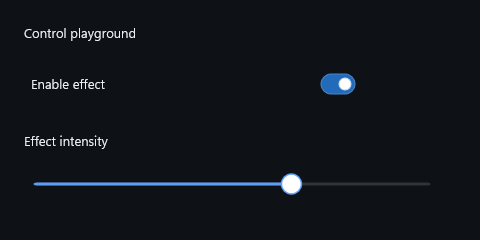
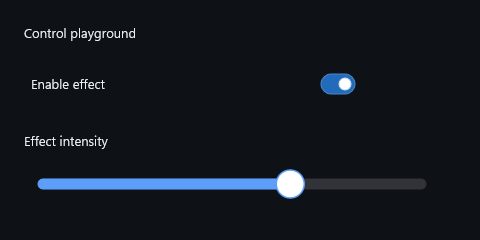
Widen Slider tracks and thumbs for touch, and add FontRole::IconLarge.
The previous 2 DIP track was too thin for finger use, and Icon versus HeroIcon left no 32 DIP size for large in-control glyphs.

Changed region(s): [[0.0625, 0.7, 0.9062, 0.8458]]

diff --git a/src/Controls/DxUi.WindowHost.cpp b/src/Controls/DxUi.WindowHost.cpp
@@ -1961,7 +1961,7 @@ IDWriteTextFormat* ControlHost::GetTextFormat(FontRole role) const noexcept
 {
     if ((! _dwriteFactory || ! _bodyTextFormat || ! _bodyStrongTextFormat || ! _bodyLargeTextFormat || ! _listItemTextFormat || ! _titleTextFormat ||
          ! _subtitleTextFormat || ! _titleLargeTextFormat || ! _displayTextFormat || ! _headerTextFormat || ! _smallTextFormat || ! _monoTextFormat ||
-         (_fluentIconFontAvailable && (! _iconTextFormat || ! _heroIconTextFormat))))
+         (_fluentIconFontAvailable && (! _iconTextFormat || ! _heroIconTextFormat || ! _iconLargeTextFormat))))
     {
         if (! EnsureDeviceIndependentResources())
         {
@@ -1982,6 +1982,7 @@ IDWriteTextFormat* ControlHost::GetTextFormat(FontRole role) const noexcept
         case FontRole::Small: return _smallTextFormat.get();
         case FontRole::Icon: return _iconTextFormat ? _iconTextFormat.get() : _smallTextFormat.get();
         case FontRole::HeroIcon: return _heroIconTextFormat ? _heroIconTextFormat.get() : (_iconTextFormat ? _iconTextFormat.get() : _smallTextFormat.get());
+        case FontRole::IconLarge: return _iconLargeTextFormat ? _iconLargeTextFormat.get() : (_iconTextFormat ? _iconTextFormat.get() : _smallTextFormat.get());
         case FontRole::Monospace: return _monoTextFormat.get();
         case FontRole::Body:
         default: return _bodyTextFormat.get();
@@ -2009,7 +2010,7 @@ IDWriteTextFormat* ControlHost::GetTextFormat(FontRole role,
         return it->second.get();
     }
 
-    if ((role == FontRole::Icon || role == FontRole::HeroIcon) && ! HasFluentIconFont())
+    if ((role == FontRole::Icon || role == FontRole::HeroIcon || role == FontRole::IconLarge) && ! HasFluentIconFont())
     {
         return GetTextFormat(FontRole::Small, alignment, paragraphAlignment, wrap);
     }
@@ -3054,6 +3055,16 @@ bool ControlHost::EnsureDeviceIndependentResources() const noexcept
         {
             Debug::Warning(L"DxUi::ControlHost: CreateTextFormat failed for fluent hero icon text: 0x{:08X}", hr);
             _heroIconTextFormat.reset();
+        }
+    }
+    if (_fluentIconFontAvailable && ! _iconLargeTextFormat)
+    {
+        const Typography::TypographySpec spec = Typography::GetDxUiTypographySpec(FontRole::IconLarge);
+        const HRESULT hr                      = Typography::CreateTextFormat(_dwriteFactory.get(), spec, _iconLargeTextFormat.addressof());
+        if (FAILED(hr) || ! _iconLargeTextFormat)
+        {
+            Debug::Warning(L"DxUi::ControlHost: CreateTextFormat failed for fluent large icon text: 0x{:08X}", hr);
+            _iconLargeTextFormat.reset();
         }
     }
     if (! _monoTextFormat)

diff --git a/Tests/Controls/DxUiTests.NewControls.cpp b/Tests/Controls/DxUiTests.NewControls.cpp
@@ -953,6 +953,20 @@ void TestSliderDefaultState()
     RequireFloatNear(static_cast<float>(slider.GetLargeStep()), 10.0f, 0.0001f, "slider defaults to a page-sized keyboard step");
 }
 
+void TestSliderTouchFriendlyGeometry()
+{
+    using namespace DxUi;
+
+    Slider slider;
+    slider.SetBounds(D2D1::RectF(0.0f, 0.0f, 220.0f, 48.0f));
+    slider.SetValue(50.0);
+    const D2D1_RECT_F track = slider.DebugGetTrackRect();
+    const D2D1_RECT_F thumb = slider.DebugGetThumbRect();
+    RequireFloatNear(track.bottom - track.top, 10.0f, 0.01f, "slider track is 10 DIP thick for touch");
+    RequireFloatNear(thumb.right - thumb.left, 28.0f, 0.01f, "slider thumb is 28 DIP at rest");
+    Require(track.left >= 13.5f && (220.0f - track.right) >= 13.5f, "slider track insets leave room for the thumb");
+}
+
 void TestSliderKeyboardAndPointerInputUpdatesValue()
 {
     using namespace DxUi;
@@ -960,7 +974,7 @@ void TestSliderKeyboardAndPointerInputUpdatesValue()
     WindowHost host;
     auto root    = std::make_unique<Panel>();
     auto* slider = root->AddChild<Slider>();
-    slider->SetBounds(D2D1::RectF(0.0f, 0.0f, 220.0f, 32.0f));
+    slider->SetBounds(D2D1::RectF(0.0f, 0.0f, 220.0f, 48.0f));
     slider->SetMinimum(0.0);
     slider->SetMaximum(10.0);
     slider->SetValue(5.0);
@@ -986,8 +1000,8 @@ void TestSliderKeyboardAndPointerInputUpdatesValue()
     RequireFloatNear(static_cast<float>(slider->GetValue()), 10.0f, 0.0001f, "slider page-up clamps to the configured maximum");
     Require(callbackCount == 2u && lastValue == 10.0, "slider page-up fires the value-changed callback");
 
-    Require(slider->OnMouseDown(host, D2D1::Point2F(10.0f, 16.0f), false, 0), "slider handles pointer press");
-    Require(slider->OnMouseUp(host, D2D1::Point2F(10.0f, 16.0f), false, 0), "slider handles pointer release");
+    Require(slider->OnMouseDown(host, D2D1::Point2F(10.0f, 24.0f), false, 0), "slider handles pointer press");
+    Require(slider->OnMouseUp(host, D2D1::Point2F(10.0f, 24.0f), false, 0), "slider handles pointer release");
     RequireFloatNear(static_cast<float>(slider->GetValue()), 0.0f, 0.0001f, "slider pointer input maps the far-left track edge to the minimum value");
     Require(callbackCount >= 3u && lastValue == 0.0, "slider pointer input fires the value-changed callback");
 }
@@ -1899,6 +1913,7 @@ void RunNewControlTests()
 
     // Slider
     TestSliderDefaultState();
+    TestSliderTouchFriendlyGeometry();
     TestSliderKeyboardAndPointerInputUpdatesValue();
     TestSliderVerticalAndRightToLeftGeometryMirrors();
     TestSliderPaintHandlesMissingDeviceContext();

diff --git a/Tests/Controls/DxUiTests.WindowHost.cpp b/Tests/Controls/DxUiTests.WindowHost.cpp
@@ -26,6 +26,8 @@ void TestDxUiTypographyMapsFontRolesToSegoeUiVariableFamilies()
     const TypographySpec titleLargeSpec = GetDxUiTypographySpec(FontRole::TitleLarge);
     const TypographySpec displaySpec    = GetDxUiTypographySpec(FontRole::Display);
     const TypographySpec iconSpec       = GetDxUiTypographySpec(FontRole::Icon);
+    const TypographySpec iconLargeSpec  = GetDxUiTypographySpec(FontRole::IconLarge);
+    const TypographySpec heroIconSpec   = GetDxUiTypographySpec(FontRole::HeroIcon);
     const TypographySpec monoSpec       = GetDxUiTypographySpec(FontRole::Monospace);
 
     Require(bodySpec.familyName == kSegoeUiVariableTextFamily, "body role uses Segoe UI Variable Text");
@@ -35,7 +37,9 @@ void TestDxUiTypographyMapsFontRolesToSegoeUiVariableFamilies()
     Require(headerSpec.familyName == kSegoeUiVariableSmallFamily, "header role uses Segoe UI Variable Small");
     Require(titleLargeSpec.familyName == kSegoeUiVariableDisplayFamily, "title-large role uses Segoe UI Variable Display");
     Require(displaySpec.familyName == kSegoeUiVariableDisplayFamily, "display role uses Segoe UI Variable Display");
-    Require(iconSpec.familyName == kSegoeFluentIconsFamily, "icon role uses Segoe Fluent Icons");
+    Require(iconSpec.familyName == kSegoeFluentIconsFamily && iconSpec.sizeDip == 12.0f, "icon role uses 12 DIP Segoe Fluent Icons");
+    Require(iconLargeSpec.familyName == kSegoeFluentIconsFamily && iconLargeSpec.sizeDip == 32.0f, "icon-large role uses 32 DIP Segoe Fluent Icons");
+    Require(heroIconSpec.familyName == kSegoeFluentIconsFamily && heroIconSpec.sizeDip == 64.0f, "hero-icon role uses 64 DIP Segoe Fluent Icons");
     Require(monoSpec.familyName == kUiMonospaceFamily, "monospace role uses the shared monospace family");
 }
 

diff --git a/src/Controls/DxUi.Controls.cpp b/src/Controls/DxUi.Controls.cpp
@@ -201,11 +201,11 @@ constexpr float kTooltipCornerRadiusDip          = 4.0f;
 constexpr float kTooltipFallbackLineHeightDip    = 18.0f;
 constexpr float kTooltipPreferredTextHeightDip   = 256.0f;
 constexpr float kMenuBarItemCornerRadiusDip      = 4.0f;
-constexpr float kSliderTrackThicknessDip         = 2.0f;
-constexpr float kSliderThumbDiameterDip          = 20.0f;
-constexpr float kSliderThumbHoverDiameterDip     = 22.0f;
-constexpr float kSliderThumbPressedDiameterDip   = 18.0f;
-constexpr float kSliderTrackInsetDip             = 10.0f;
+constexpr float kSliderTrackThicknessDip         = 10.0f;
+constexpr float kSliderThumbDiameterDip          = 28.0f;
+constexpr float kSliderThumbHoverDiameterDip     = 32.0f;
+constexpr float kSliderThumbPressedDiameterDip   = 24.0f;
+constexpr float kSliderTrackInsetDip             = 14.0f;
 constexpr float kSliderTickLengthDip             = 6.0f;
 constexpr float kTabStripHeightDip               = 32.0f;
 constexpr float kTabCornerRadiusDip              = 5.0f;
@@ -4538,10 +4538,11 @@ void Slider::Paint(ControlHost& host) const
     const D2D1_RECT_F fill        = GetFillRect();
     const D2D1_RECT_F thumb       = GetThumbRect();
     const D2D1_COLOR_F trackColor = BlendColor(theme.border, theme.windowBackground, theme.dark ? 0.40f : 0.55f);
-    DrawRoundedRect(host, track, trackColor, trackColor, 4.0f);
+    const float trackRadius       = kSliderTrackThicknessDip * 0.5f;
+    DrawRoundedRect(host, track, trackColor, trackColor, trackRadius);
     if (fill.right > fill.left && fill.bottom > fill.top)
     {
-        DrawRoundedRect(host, fill, theme.accent, theme.accent, 4.0f);
+        DrawRoundedRect(host, fill, theme.accent, theme.accent, trackRadius);
     }
 
     if (! _tickMarks.empty())

diff --git a/include/DxUi/DxUi.h b/include/DxUi/DxUi.h
@@ -189,9 +189,10 @@ enum class FontRole : uint8_t
     Display,    // 68/92 Semibold
     Header,     // DEPRECATED — use Subtitle for new code; kept for backward compat
     Small,      // maps to Caption in WinUI
-    Icon,
-    HeroIcon,
+    Icon,       // 12 DIP Fluent/MDL2
+    HeroIcon,   // 64 DIP Fluent/MDL2
     Monospace,
+    IconLarge, // 32 DIP Fluent/MDL2; between Icon and HeroIcon
 };
 
 // ---------------------------------------------------------------------------
@@ -3959,6 +3960,7 @@ private:
     mutable wil::com_ptr<IDWriteTextFormat> _smallTextFormat;
     mutable wil::com_ptr<IDWriteTextFormat> _iconTextFormat;
     mutable wil::com_ptr<IDWriteTextFormat> _heroIconTextFormat;
+    mutable wil::com_ptr<IDWriteTextFormat> _iconLargeTextFormat;
     mutable wil::com_ptr<IDWriteTextFormat> _monoTextFormat;
     mutable std::unordered_map<uint64_t, wil::com_ptr<IDWriteTextFormat>> _configuredTextFormats;
     mutable bool _fluentIconFontAvailabilityChecked = false;

diff --git a/src/Controls/DxUi.Typography.h b/src/Controls/DxUi.Typography.h
@@ -147,6 +147,7 @@ struct TypographyTextFormatCacheEntry final
         case FontRole::Small: return MakeUiTextSpec(11.0f, DWRITE_FONT_WEIGHT_NORMAL);
         case FontRole::Icon: return MakeUiIconSpec(12.0f);
         case FontRole::HeroIcon: return MakeUiIconSpec(64.0f);
+        case FontRole::IconLarge: return MakeUiIconSpec(32.0f);
         case FontRole::Monospace: return MakeUiMonospaceSpec(12.0f);
         case FontRole::Body:
         default: return MakeUiTextSpec(13.0f, DWRITE_FONT_WEIGHT_NORMAL);

diff --git a/docs/controls.md b/docs/controls.md
@@ -19,7 +19,7 @@ Set bounds, visibility, enabled state and content before preparation. Mutate con
 | ProgressBar | Set minimum, maximum and value; `SetIndeterminate(true)` requires host animation ticks. |
 | PageIndicator | Set `SetPageCount` / `SetSelectedIndex` for a bottom strip of dots. `SetOnSelected` reports user clicks and Left/Right/Home/End. Hidden and not hittable when there are fewer than two pages. Strip height is `kStripHeightDip` (20). |
 | ThroughputGraph | Feed timestamped samples through its public sample API; keep history within its configured limits. Use the rendering tests for populated series and bands. |
-| Slider | Set range/value and handle `SetOnChange(SliderChange)` for preview, commit and cancel. |
+| Slider | Set range/value and handle `SetOnChange(SliderChange)` for preview, commit and cancel. The track is 10 DIP thick with a 28 DIP thumb; the full control bounds are the hit target, so keep height at least 48 DIP for touch. |
 | Toolbar | Panel for command controls; populate buttons with labels, bounds and actions. |
 | MenuBar | Supply `MenuBarItem` records through `SetItems`; handle `SetOnOpenItem` and hover changes. Native menu operations require the HWND integration. |
 | TabControl | Add populated tab pages with `AddTab`; handle selection, close-request, closed and reorder callbacks as needed. |

diff --git a/Specs/UI/UI_ControlsAndLayout.md b/Specs/UI/UI_ControlsAndLayout.md
@@ -1,7 +1,7 @@
 # Controls and layout
 
 Status: normative intended contract
-Last reviewed: 2026-09-06
+Last reviewed: 2026-09-07
 
 Implemented capabilities are listed in [capabilities.json](../../capabilities.json); requirements for pending
 targets are acceptance contracts, not claims of current support.
@@ -41,6 +41,12 @@ nothing, report empty hit bounds, and ignore pointer and keyboard input. `SetSel
 does not wrap. Idle dots use subdued text; the selected dot uses the theme accent. Preferred strip height is
 `PageIndicator::kStripHeightDip` (20 DIP). Consumers that draw a matching strip without hosting the control MUST use
 the same DIP radius, selected radius and gap constants.
+
+### Slider
+
+`Slider` uses a 10 DIP capsule track and a 28 DIP thumb (32 DIP hovered, 24 DIP pressed). The track insets 14 DIP from
+each end so the thumb stays inside the control. Pointer hit testing uses the full control bounds, not the thin fill,
+so consumers should keep at least a 48 DIP control height for touch. Keyboard steps still use `SetStep` / `SetLargeStep`.
 
 Each control also requires accurate usage documentation in `docs/controls.md`. Code changes review affected docs
 and regenerate changed visuals into `docs/gallery` under [the documentation contract](../Core/Core_Documentation.md).

diff --git a/Specs/UI/UI_ThemeAndTypography.md b/Specs/UI/UI_ThemeAndTypography.md
@@ -1,13 +1,15 @@
 # Theme and typography
 
 Status: normative intended contract
-Last reviewed: 2026-09-06
+Last reviewed: 2026-09-07
 
 Implemented capabilities are listed in [capabilities.json](../../capabilities.json); requirements for pending
 targets are acceptance contracts, not claims of current support.
 
 Consumers provide colors and style tokens. Shared controls support light, dark, high contrast and reduced motion.
-Retain Segoe UI typography and Fluent/MDL2/Unicode icon fallback where supported. Do not add a dependency on either
+Retain Segoe UI typography and Fluent/MDL2/Unicode icon fallback where supported. `FontRole::Icon` is 12 DIP,
+`FontRole::IconLarge` is 32 DIP, and `FontRole::HeroIcon` is 64 DIP, all on Segoe Fluent Icons with MDL2 fallback.
+Do not add a dependency on either
 application's theme record or icon assets. Preserve the original notice for any later imported assets.
 
 Prepare changed Unicode text/layout and glyph resources outside composition. Use real font metrics and clip to
